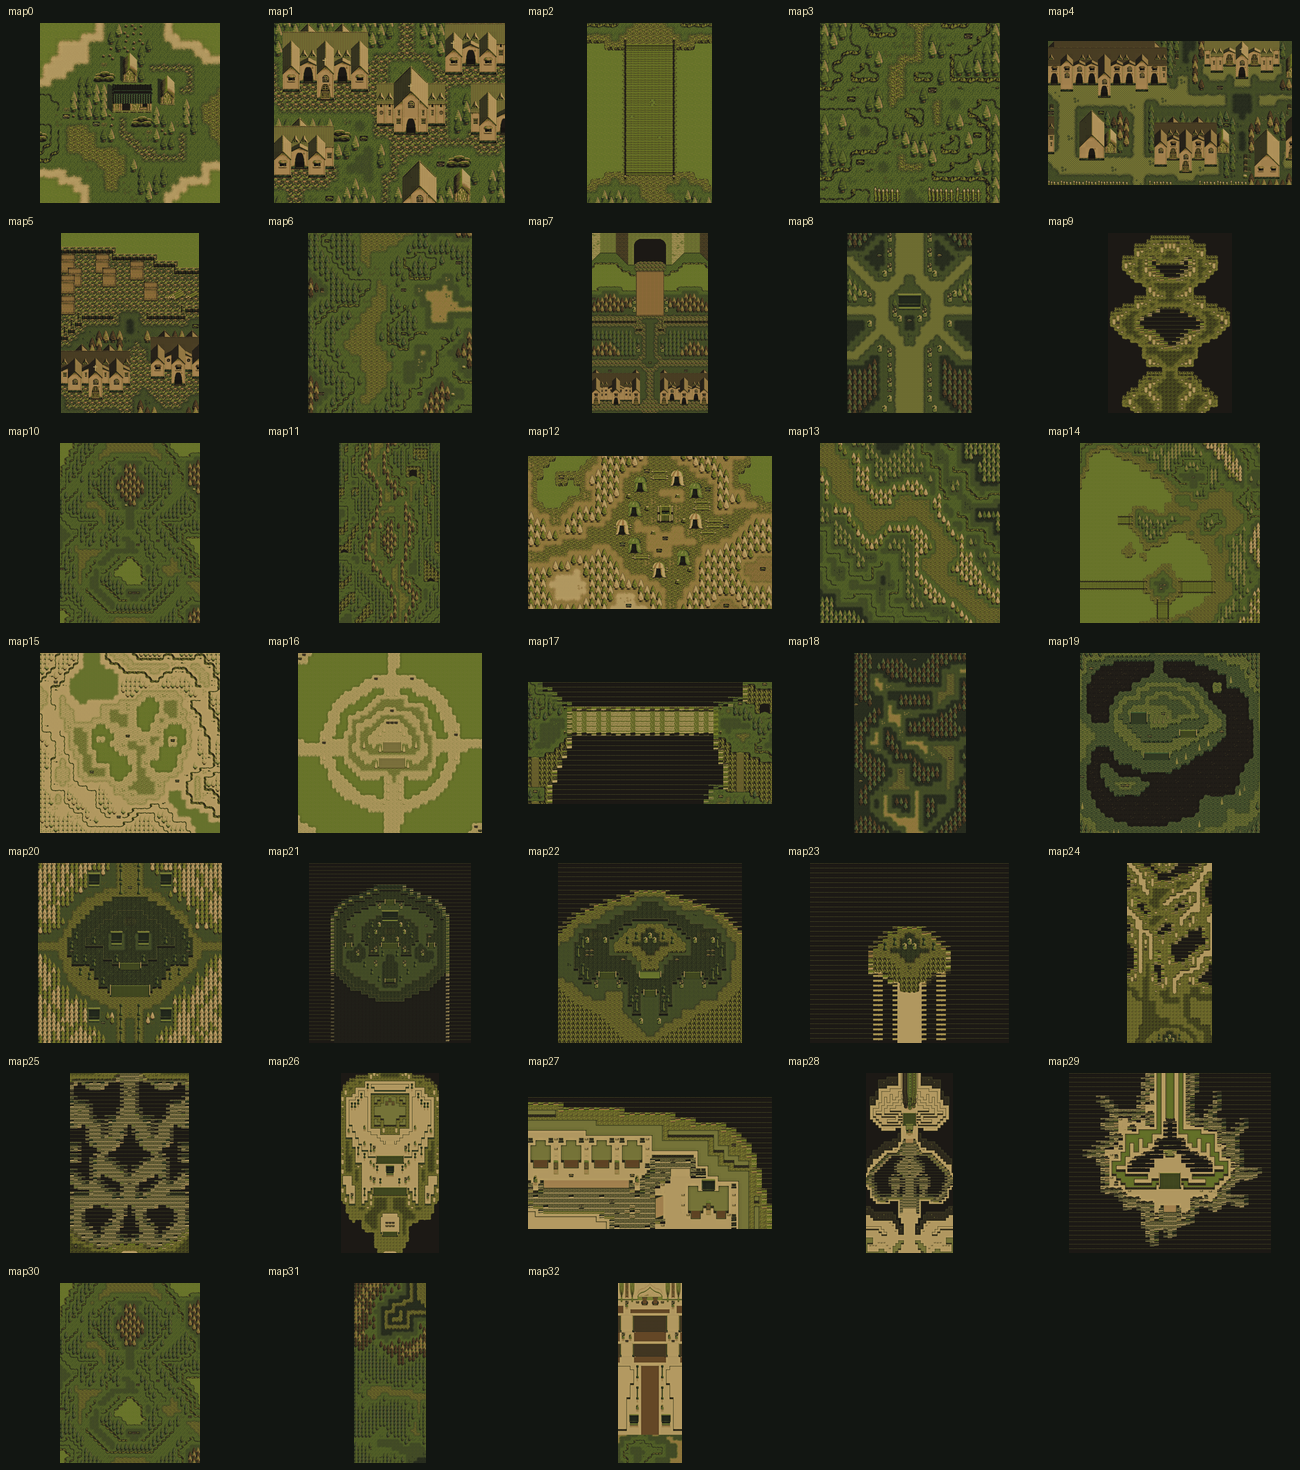
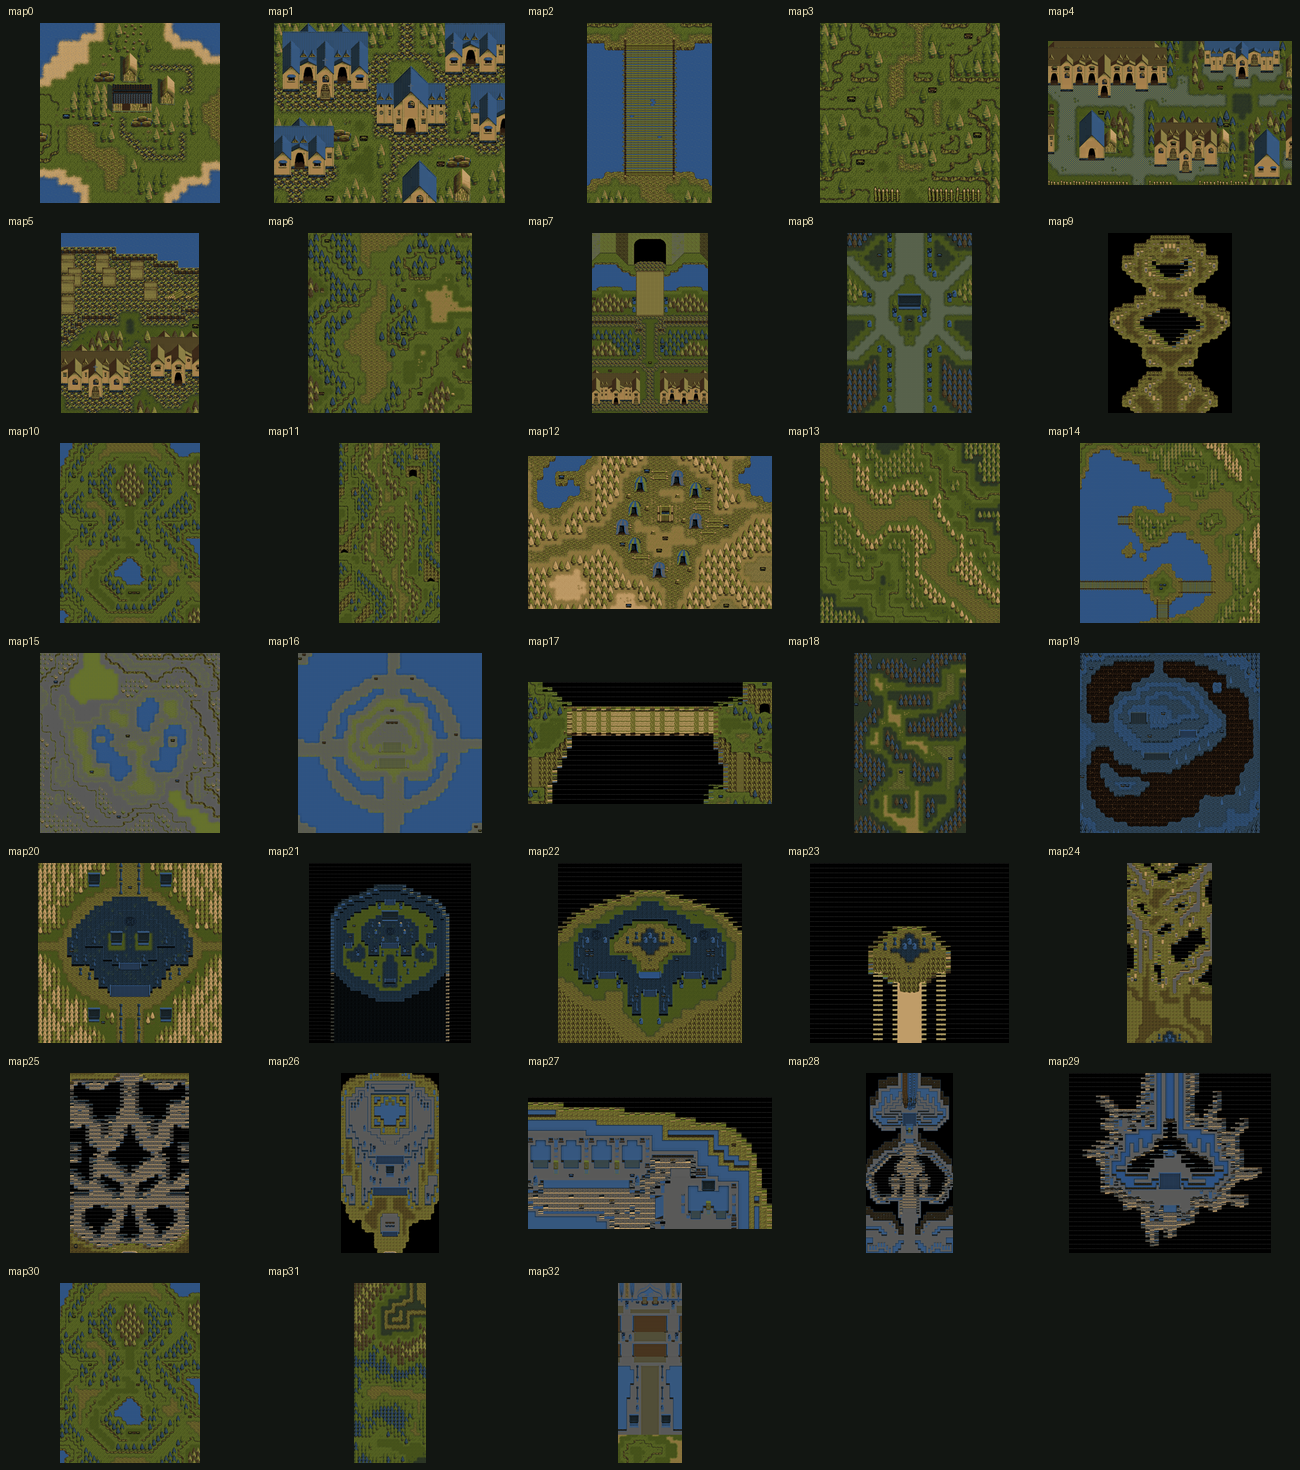
feat: 依手繪參考完善全戰役戰場

diff --git a/tools/build_modern_map_tileset.py b/tools/build_modern_map_tileset.py
@@ -66,6 +66,11 @@ def repaint(source: Image.Image, concept: Image.Image, tile_width: int, tile_hei
                 if original[3] == 0:
                     pixels.append((0, 0, 0, 0))
                     continue
+                # 原版用純黑作洞窟／畫布外區域；概念稿的中性色不可把這些空區
+                # 提亮成灰色，否則吊橋與空中要塞會出現大片假地板。
+                if max(original[:3]) <= 12:
+                    pixels.append((0, 0, 0, original[3]))
+                    continue
                 base = nearest_by_lightness(original[:3], groups[family(original[:3])])
                 # 保留原圖明暗與概念稿色相；少量平滑色避免退化成單純換色。
                 luminance = max(0.55, min(1.35, (sum(smooth[:3]) + 1) / (sum(original[:3]) + 1)))

diff --git a/remake/cmd/fd2/modern_story_portrait_test.go b/remake/cmd/fd2/modern_story_portrait_test.go
@@ -312,3 +312,22 @@ func TestLoadModernStoryPortraitSetAdmitsVariableMapGeometry(t *testing.T) {
 		t.Fatalf("map17 tileset=%v", tileset)
 	}
 }
+
+func TestModernThemePrivateCatalogAdmitsAllMaps(t *testing.T) {
+	pack := os.Getenv("FD2_TEST_MODERN_PACK")
+	if pack == "" {
+		t.Skip("set FD2_TEST_MODERN_PACK to verify the private full theme")
+	}
+	set, err := loadModernStoryPortraitSet(assetPath("assets/themes/modern/catalog.json"), pack)
+	if err != nil {
+		t.Fatal(err)
+	}
+	if len(set.mapTilesets) != 33 {
+		t.Fatalf("modern map tilesets=%d, want 33", len(set.mapTilesets))
+	}
+	for mapID := 0; mapID < 33; mapID++ {
+		if set.mapTilesets[mapID] == nil {
+			t.Fatalf("modern map%d tileset missing", mapID)
+		}
+	}
+}

diff --git a/tools/validate_modern_theme_catalog.py b/tools/validate_modern_theme_catalog.py
@@ -15,7 +15,9 @@ ID_RE = re.compile(r"^[a-z0-9]+(?:[._-][a-z0-9]+)+$")
 SHA_RE = re.compile(r"^[0-9a-f]{64}$")
 SOURCE_ASSET_RE = re.compile(r"^asset:[A-Za-z0-9][A-Za-z0-9._-]+$")
 PROTOTYPE_ROLES = {"portrait_concept", "battlefield_concept", "battle_hud_concept"}
-ROLES = PROTOTYPE_ROLES | {"story_portrait_frame", "map_sprite_set", "map_tileset_set"}
+ROLES = PROTOTYPE_ROLES | {
+    "story_portrait_frame", "map_sprite_set", "map_tileset_set", "battlefield_tileset_concept"
+}
 STATUSES = {"prototype", "concept", "approved", "runtime_candidate", "runtime_ready"}
 
 

diff --git a/tools/register_modern_map_tilesets.py b/tools/register_modern_map_tilesets.py
@@ -52,7 +52,7 @@ def main() -> None:
             "source_refs": [
                 f"remake/assets/maps/map{map_id}/map.json",
                 f"remake/assets/maps/map{map_id}/tileset.png",
-                "asset:modern.ch01.battlefield.style_a",
+                "asset:modern.battlefield.tileset.style_a.reference",
             ],
             "consumer_contract": "map_tileset_indexed_geometry_v1",
             "map_id": map_id,

diff --git a/docs/knowledge-base/91-worklist.md b/docs/knowledge-base/91-worklist.md
@@ -37,7 +37,7 @@
 | A1 | 編輯器 canonical schema 與穩定身份層 | `DATA-READY（全戰役 legacy projection）／RUNTIME-E1（封包 admission）`：版本化 bundle 現含1份campaign、30份scenario、35份story與38筆角色身份候選；deterministic exporter、跨文件節點／speaker validator、角色身份schema、逐檔SHA-256與完整package self-check已接。Linux AppImage與Windows ZIP重建後均帶入bundle，Linux空白cwd自檢通過。4筆名稱衝突保留直接來源並拒絕猜選 | 解決或明確拆分`native-0/1/7/96`身份歧義；建立canonical→runtime compiler，使正式戰役規則直接消費編輯後文件；再補編輯器UI修改→驗證→執行→存讀檔往返。私人297份animation metadata可顯式匯入，但不作乾淨clone必要輸入 |
 | A2 | 原版素材全量分離與清冊 | `RELEASE-DATA-READY／RESEARCH-PARTIAL`：manifest v2現有39,825筆asset與1,005筆source-resource ledger；901 standardized、11個零長度confirmed-empty、0 blocked、93 unknown。完整本機包有40,127個實體檔案、約104 MB，已於私人庫保存。2026-08-30 `v0.1.1` Linux／Windows本機完整版均為42,258個檔案，macOS為42,332個檔案；三者均綁定engine head `be9a2a77`、通過manifest驗證並標示不可公開。三平台原生公開候選與雜湊也由GitHub Actions重建成功。公開README新增33張完整戰場低解析索引、96組sprite與96組portrait代表幀，不公開可重組逐檔素材。正式`Game` caller未發現93筆unknown有直接archive consumer，因此它們不阻擋第一版 | Windows／macOS實機抽測。只有新證據找到正式consumer才重開unknown，FDOTHER #47／#49不猜接 |
 | A3 | runtime 移除 `.DAT` 即時讀取 | `RUNTIME-E1-PARTIAL`：FDTXT、字型、FDICON、FDSHAP、ANI、FDFIELD主要玩家路徑，以及城鎮、商店、標題、LOAD、整備、教會與戰場初始化均已遷移。19個巢狀音效bank已分離；標題#77選單音與ANI #1的#78 companion均由正式runtime消費。2026-08-29 caller稽核未發現正式`Game`仍直接讀原版archive，`FD2_ORIGINAL_FDOTHER`／`DATO` locator亦已移到測試專用檔，正式binary字串檢查通過；archive adapter只留source-oracle。BGM只從完整驗證的30份OGG catalog解析，物理攻擊亦由分離FIGANI provider原子預檢 | 以version 2 ledger的93筆unknown交叉核對是否有尚未登記的玩家consumer；已具標準資料但缺manifest bridge者只補provenance。沒有正式caller的oracle helper不再列為runtime缺口；只有新證據證明正式consumer存在才重開RE→spec→runtime切片 |
-| A4 | 現代美術主題 | `DATA-CONTRACT-READY／RUNTIME-E1-PARTIAL`：28 位身分已確認角色已有獨立閉嘴頭像母稿／80×80候選；三十四組 FDICON 由正式 loader 原子預檢 408 幀後取代正規化 sprite。2026-09-05 完成 `map0` 至 `map32` 共 33 張現代圖集：各自保留 `24×24` tile ID、地形／事件／碰撞座標，依第一關概念稿統一色彩與平滑材質；96／192／288／384 格四種實際幾何、map ID 與 SHA-256 均由 loader 原子驗證。現代主題禁止原版完整 indexed frame 回頭覆蓋現代圖層，公開總覽則由正式 map 資料重組。戰鬥 HUD 仍是 concept | 抽測早／中／晚期地圖的相鄰圖塊接縫、前景遮擋、人物、游標與方塊附近選單；再建立 FDOTHER HUD cell 基準與真彩 overlay。接著補齊其餘 62 組地圖人物與未登錄頭像 |
+| A4 | 現代美術主題 | `DATA-CONTRACT-READY／RUNTIME-E1-PARTIAL`：28 位身分已確認角色已有獨立閉嘴頭像母稿／80×80候選；三十四組 FDICON 由正式 loader 原子預檢 408 幀後取代正規化 sprite。2026-09-05 完成 `map0` 至 `map32` 共 33 張現代圖集：各自保留 `24×24` tile ID、地形／事件／碰撞座標，依第一關概念稿及獨立生成的高解析手繪參考統一色彩與材質；直接使用生成 atlas 曾由正式 map0 重組證明格線漂移，故 runtime 只取其風格，結構仍由原圖集逐格控制。96／192／288／384 格四種實際幾何、map ID 與 SHA-256 均由 loader 原子驗證；純黑洞窟／畫布外區域亦保持不變。現代主題禁止原版完整 indexed frame 回頭覆蓋現代圖層，公開總覽由正式 map 資料重組。戰鬥 HUD 仍是 concept | 抽測早／中／晚期地圖的相鄰圖塊接縫、前景遮擋、人物、游標與方塊附近選單；再建立 FDOTHER HUD cell 基準與真彩 overlay。接著補齊其餘 62 組地圖人物與未登錄頭像 |
 | A5 | 繁中／簡中／日文／英文與可調文字顯示 | `DATA-READY（5,176筆／語）＋DIALOGUE-REVIEWED＋RUNTIME-E1-PARTIAL`：四包共用穩定 key、變數簽章與來源；正式 story、handler dialog及事件61／75／76均查詢四語內容。2026-09-01 三個翻譯包各有1,559筆`dialogue`與155筆`dialogue_or_system`完成審校；只有三筆「奈野啊捏?」、截斷「我..」及卡蘿娜專名衝突等5筆本文維持`machine_draft`。第三章6筆「約」已於2026-09-04證實為speaker operand遭字模誤投影，改為可翻譯的場景角色「刺客／刺客隊長」，不連到約拿。戰鬥、商店、旅館、整備、教會、標題LOAD與結局主要介面已接官方pack，F4會原子同步正式grid與SpellBook顯示 | 抽測四語正常玩家長句、分頁與字形邊界；其餘非對話介面、實體名稱及破碎說話者來源仍按角色欄位個別審校，不得由對話完成度推論為全包完成 |
 
 > **2026-09-04 A5 日英介面與第一章追加：**人工審校 40 筆高頻執行期字串，涵蓋
